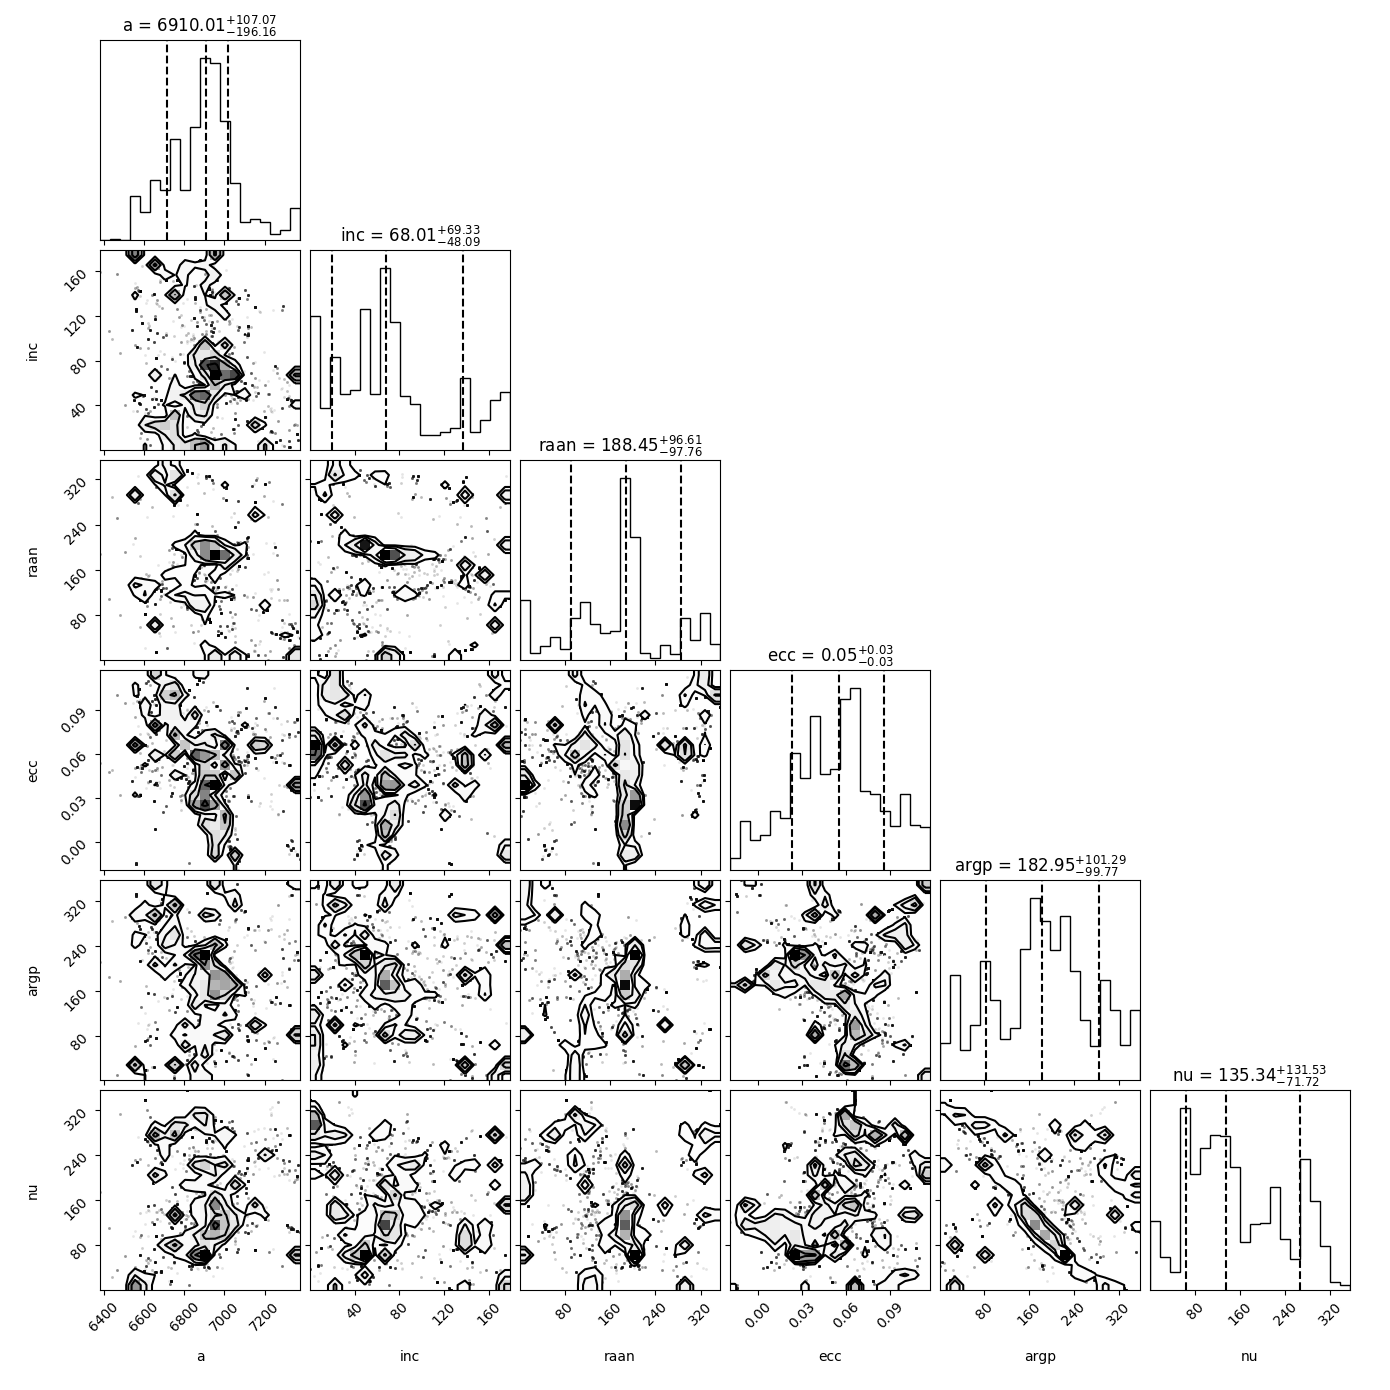
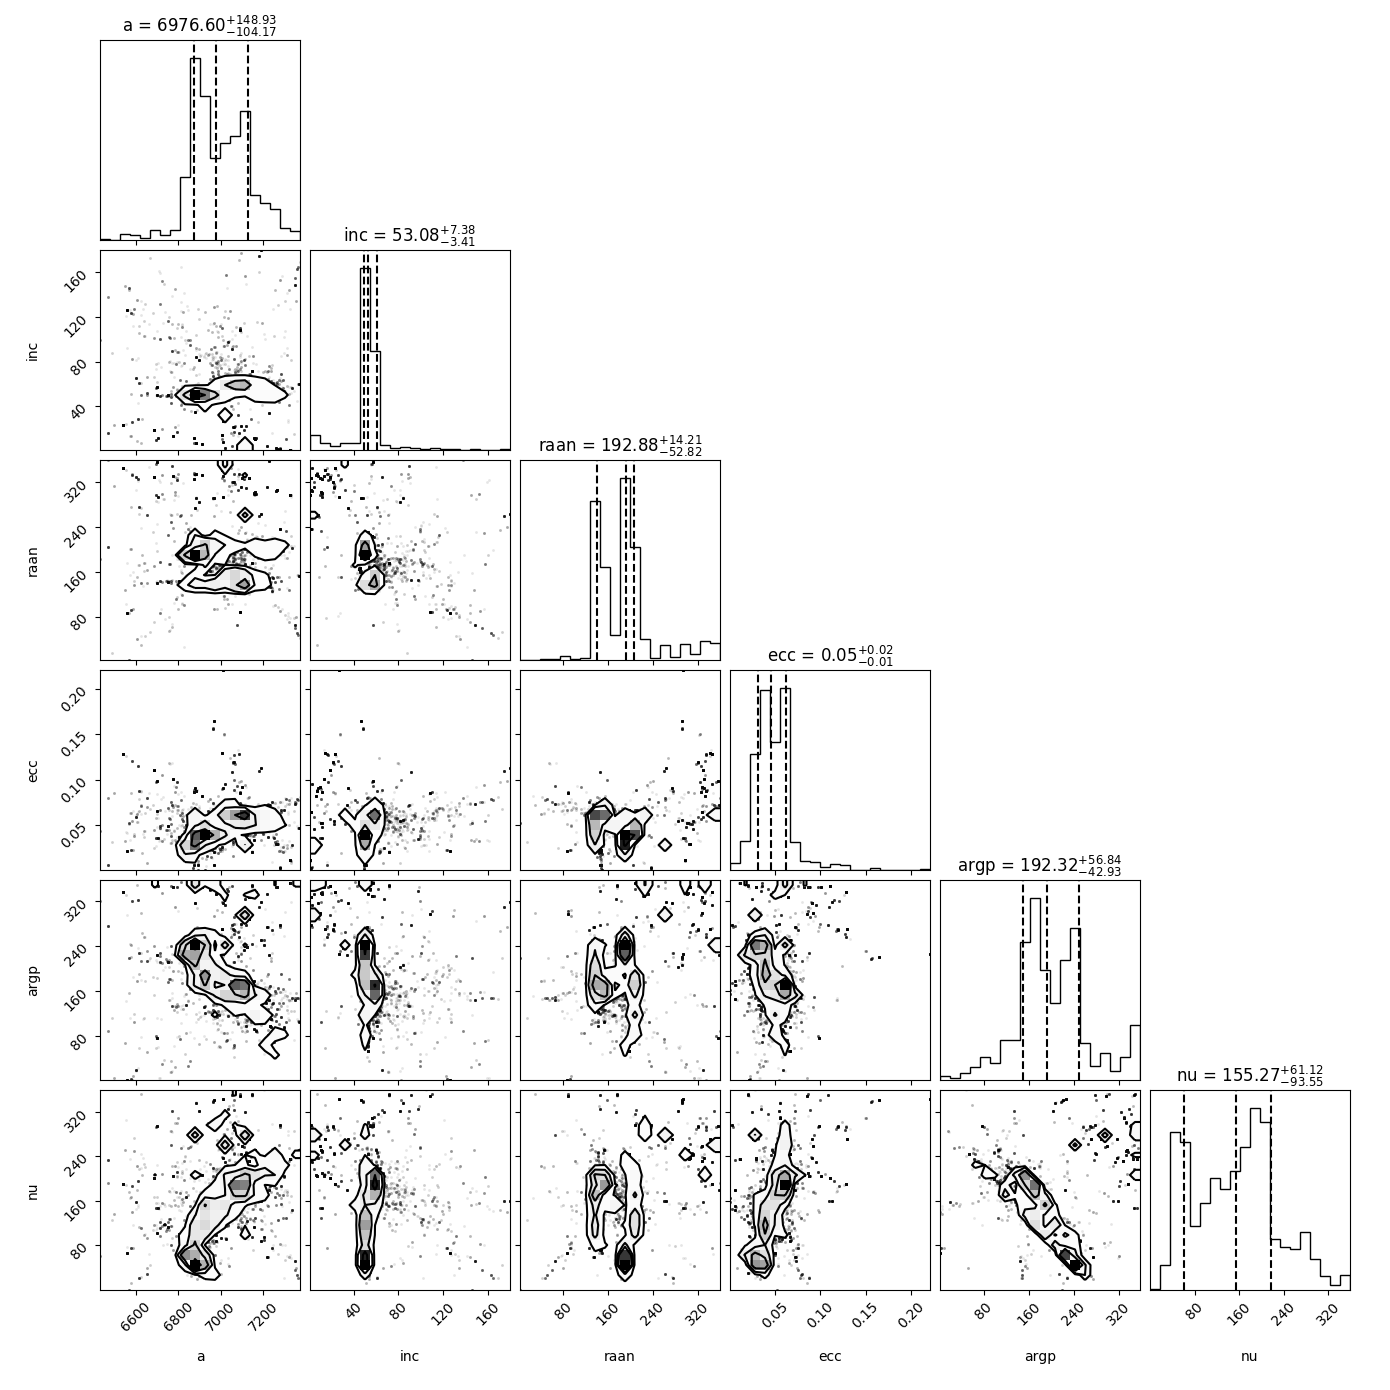
added minmax : result almost converges for a, inc

diff --git a/main.py b/main.py
@@ -3,6 +3,8 @@ import emcee
 import csv
 import corner
 
+from sklearn.preprocessing import MinMaxScaler
+
 from sgp4propagator import SGP4
 
 '''
@@ -73,6 +75,12 @@ with open('./STARLINK-1401.csv', 'r') as f:
         state_vectors.append([ float(i) for i in row[1:] ])
         epochs.append( int(row[0]) )
 
+ndim_state_vectors = len(state_vectors[0])
+ndata = len(state_vectors)
+
+scaler = MinMaxScaler()
+scaler.fit(np.array(state_vectors))
+
 def lnprob( param, covariance ):
     """
     param = [a, inc, raan, ecc, argp, nu]
@@ -83,7 +91,7 @@ def lnprob( param, covariance ):
     if a < a_min or a > a_max:
         return -np.inf
     
-    if ecc < -1 or ecc > 1 :
+    if ecc < 0 or ecc > 1 :
         return -np.inf
     
     if inc < 0 or inc > 180:
@@ -118,14 +126,15 @@ def lnprob( param, covariance ):
         if index == 0:
             continue
         gap = time - epochs[0]
-        propagated = propagator.propagate(0, gap)[-1]
+        propagated = np.array(propagator.propagate(0, gap)[-1]).reshape(1, ndim_state_vectors)
         '''
         Since value of semi-major axis is much larger than the other values,
         it might have a strong influence on the error. yet to research more on this.
         '''
-        error += state_vectors[index] - propagated
+        error += scaler.transform(np.array(state_vectors[index]).reshape(1, ndim_state_vectors)) - scaler.transform(propagated)
     
-    error /= len(epochs)
+    error /= len(epochs) - 1
+    error = error.reshape((ndim_state_vectors, ))
     return -0.5 * np.dot(error, np.linalg.solve(covariance, error))
 
 '''
